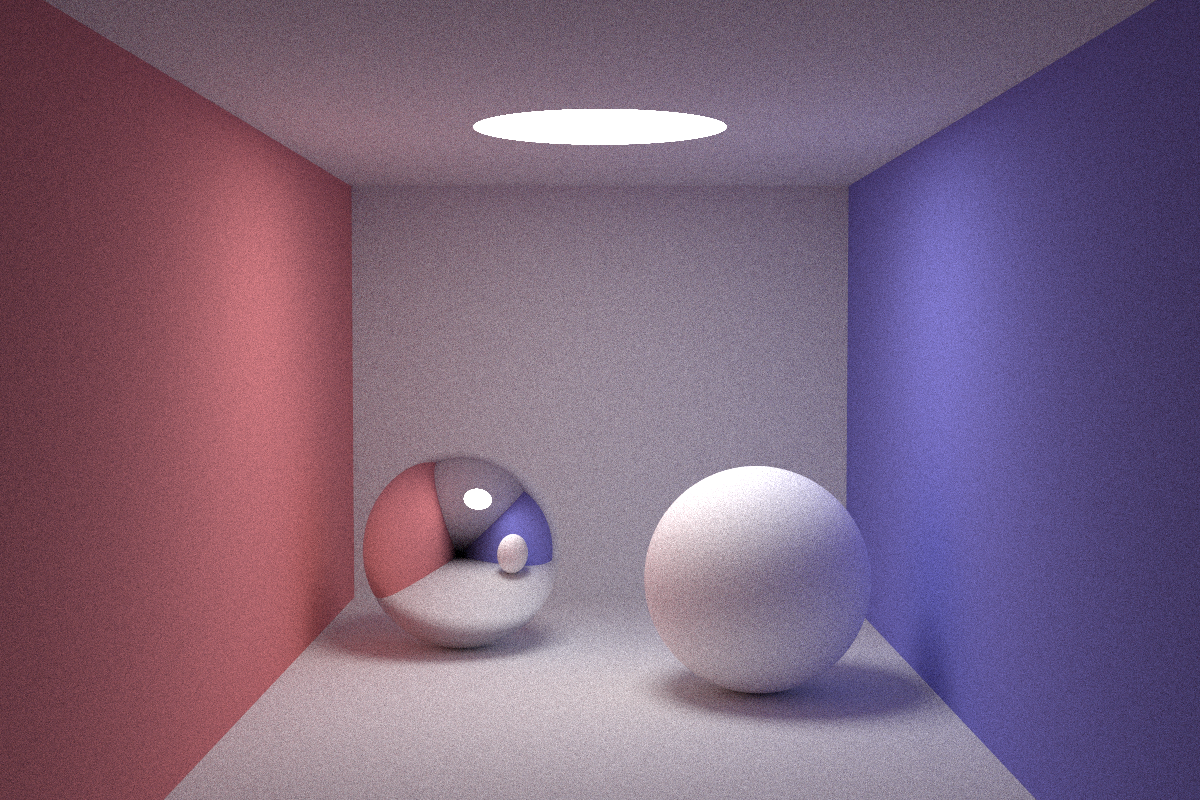
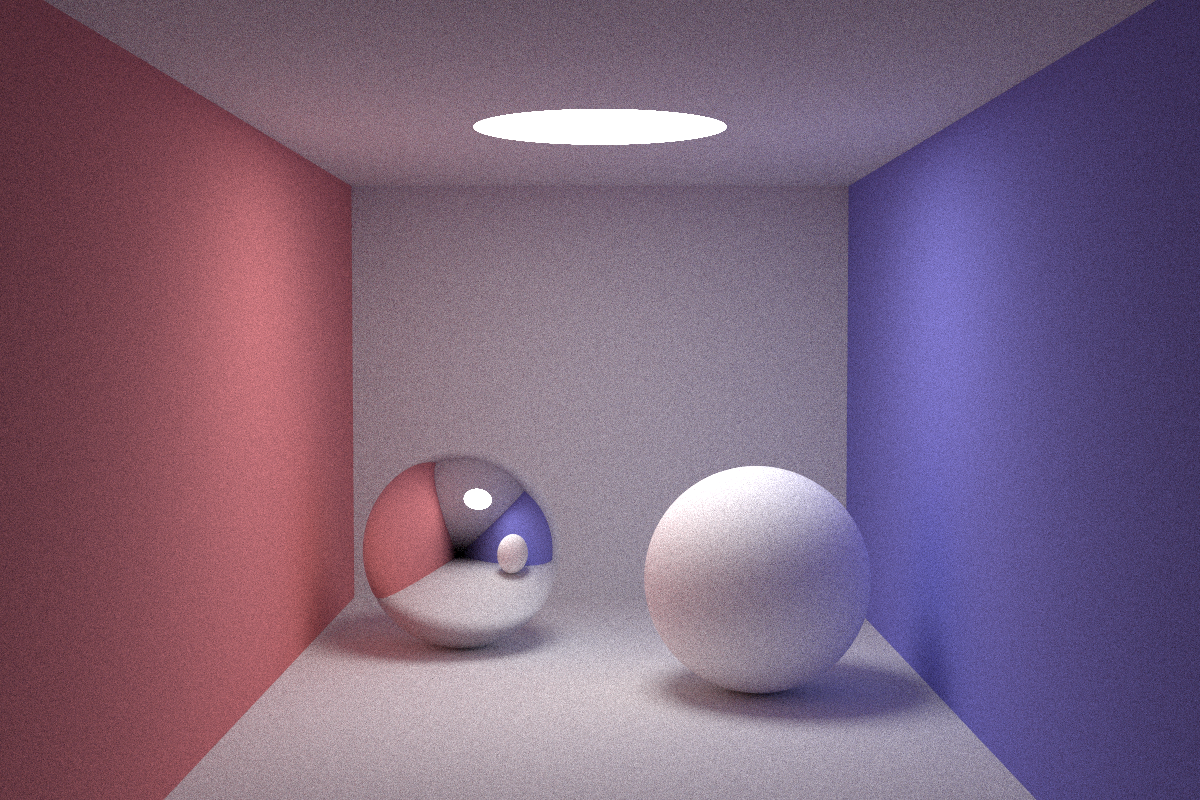
tiny refactor

diff --git a/src/main.rs b/src/main.rs
@@ -14,12 +14,17 @@ struct Ray {
     d: Vector3<f64>,
 }
 
+enum Material {
+    Specular,
+    Diffuse,
+}
+
 struct Sphere {
     p: Vector3<f64>,
     r: f64,
     rf: Vector3<f64>,
     le: Vector3<f64>,
-    spc: bool,
+    mat: Material,
 }
 
 impl Sphere {
@@ -123,56 +128,56 @@ fn main() {
             r: 1e5,
             rf: Vector3::new(0.75, 0.25, 0.25),
             le: Vector3::new(0.0, 0.0, 0.0),
-            spc: false,
+            mat: Material::Diffuse,
         },
         Sphere {
             p: Vector3::new(-1e5 + 99.0, 40.8, 81.6),
             r: 1e5,
             rf: Vector3::new(0.25, 0.25, 0.75),
             le: Vector3::new(0.0, 0.0, 0.0),
-            spc: false,
+            mat: Material::Diffuse,
         },
         Sphere {
             p: Vector3::new(50.0, 40.8, 1e5),
             r: 1e5,
             rf: Vector3::new(0.75, 0.75, 0.75),
             le: Vector3::new(0.0, 0.0, 0.0),
-            spc: false,
+            mat: Material::Diffuse,
         },
         Sphere {
             p: Vector3::new(50.0, 1e5, 81.6),
             r: 1e5,
             rf: Vector3::new(0.75, 0.75, 0.75),
             le: Vector3::new(0.0, 0.0, 0.0),
-            spc: false,
+            mat: Material::Diffuse,
         },
         Sphere {
             p: Vector3::new(50.0, -1e5 + 81.6, 81.6),
             r: 1e5,
             rf: Vector3::new(0.75, 0.75, 0.75),
             le: Vector3::new(0.0, 0.0, 0.0),
-            spc: false,
+            mat: Material::Diffuse,
         },
         Sphere {
             p: Vector3::new(27.0, 16.5, 47.0),
             r: 16.5,
             rf: Vector3::new(0.999, 0.999, 0.999),
             le: Vector3::new(0.0, 0.0, 0.0),
-            spc: true,
+            mat: Material::Specular,
         },
         Sphere {
             p: Vector3::new(73.0, 16.5, 78.0),
             r: 16.5,
             rf: Vector3::new(0.999, 0.999, 0.999),
             le: Vector3::new(0.0, 0.0, 0.0),
-            spc: false,
+            mat: Material::Diffuse,
         },
         Sphere {
             p: Vector3::new(50.0, 681.6 - 0.27, 81.6),
             r: 600.0,
             rf: Vector3::new(0.0, 0.0, 0.0),
             le: Vector3::new(12.0, 12.0, 12.0),
-            spc: false,
+            mat: Material::Diffuse,
         },
     ];
     let scene = Scene { spheres };
@@ -211,24 +216,25 @@ fn main() {
                             } else {
                                 -h.n
                             };
-                            if h.sphere.spc {
-                                ray.d + 2.0 * Vector3::dot(&n, &-ray.d) * n
-                            } else {
-                                let (u, v) = tangent_space(&n);
-                                let d = {
-                                    let r = rng.gen::<f64>().sqrt();
-                                    let t = 2.0 * 3.141593 * rng.gen::<f64>();
-                                    let x = r * t.cos();
-                                    let y = r * t.sin();
-                                    let z = 1.0 - x * x - y * y;
-                                    let z = if z < 0.0 {
-                                        0.0
-                                    } else {
-                                        z.sqrt()
+                            match h.sphere.mat {
+                                Material::Specular => ray.d + 2.0 * Vector3::dot(&n, &-ray.d) * n,
+                                Material::Diffuse => {
+                                    let (u, v) = tangent_space(&n);
+                                    let d = {
+                                        let r = rng.gen::<f64>().sqrt();
+                                        let t = 2.0 * 3.141593 * rng.gen::<f64>();
+                                        let x = r * t.cos();
+                                        let y = r * t.sin();
+                                        let z = 1.0 - x * x - y * y;
+                                        let z = if z < 0.0 {
+                                            0.0
+                                        } else {
+                                            z.sqrt()
+                                        };
+                                        Vector3::new(x, y, z)
                                     };
-                                    Vector3::new(x, y, z)
-                                };
-                                u * d.x + v * d.y + n * d.z
+                                    u * d.x + v * d.y + n * d.z
+                                }
                             }
                         };
                         th.x *= h.sphere.rf.x;
